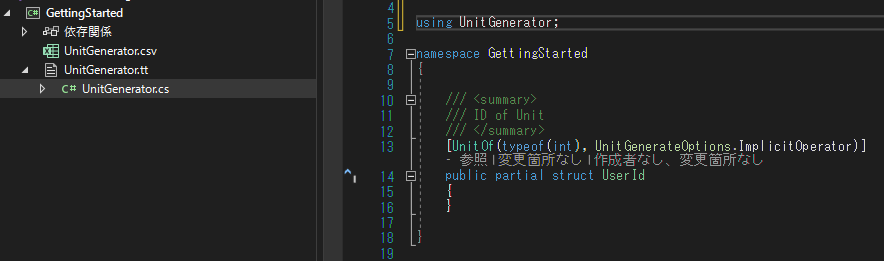
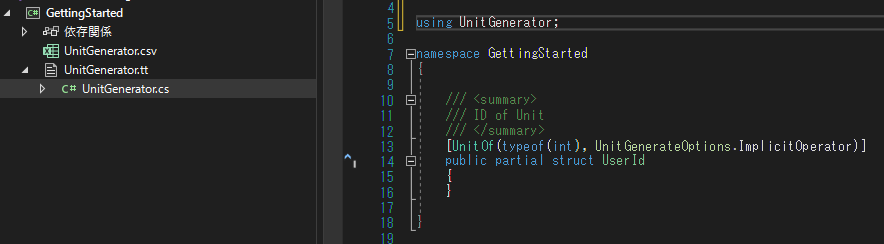
Update documents.

diff --git a/Source/GettingStarted/GettingStarted/UnitGenerator.cs b/Source/GettingStarted/GettingStarted/UnitGenerator.cs
@@ -6,9 +6,13 @@ namespace GettingStarted
     /// <summary>
     /// ID of Unit
     /// </summary>
-    [UnitOf(typeof(int), UnitGenerateOptions.ImplicitOperator)]
+    [UnitOf(typeof(int), UnitGenerateOptions.Validate, "{0:###,###,###}")]
     public partial struct UserId
     {
+        private partial void Validate()
+        {
+            if (value < 20 is false) throw new Exception($"Invalid value range: {value}");
+        }
     }
 
 }

diff --git a/README.md b/README.md
@@ -1,2 +1,110 @@
+[Japanese Document](https://zenn.dev/nuits_jp/articles/2022-05-19-unit-generator-template)
+
 # UnitGeneratorTemplate
 
+UnitGeneratorTemplate is a template package to automatically generate Value Objects using UnitGenerator in bulk by describing settings in CSV.
+
+DDD's ValueObject requires a large amount of similar code to be written.
+
+The [UnitGenerator](https://github.com/Cysharp/UnitGenerator) is a library that solves those issues.
+
+It's very well done, and it scratches an itch, but it's a lot of work to produce large quantities of it...
+
+UnitGeneratorTemplate is a solution to that problem.
+
+Using the T4 template and CSV, you can create arbitrary Value Objects using UnitGenerator in bulk.
+
+# Getting Started
+
+Install UnitGenerator and UnitGeneratorTemplate from NuGet.
+
+- NuGet:[UnitGenerator](https://www.nuget.org/packages/UnitGenerator/)
+- NuGet:[UnitGeneratorTemplate](https://www.nuget.org/packages/UnitGeneratorTemplate/)
+
+
+```powershell
+Install-Package UnitGenerator
+Install-Package UnitGeneratorTemplate
+```
+
+When the package is installed, two files are added.
+
+- UnitGenerator.csv
+- UnitGenerator.tt
+
+Define the Unit you want to generate in UnitGenerator.csv and generate the code in UnitGenerator.tt.
+
+The following screenshot shows a CSV opened with the "Edit csv" extension in Visual Studio Code.
+
+![](/Images/edit-csv.png)
+
+
+The CSV is specified as follows
+
+|Column|Description|Example|
+|--|--|--|
+|Name|Name of struct to be generated|UnitId|
+|Type|Value type|int|
+|Description|Type comment of the struct to be generated|Value object representing the ID of the Unit|
+|Format|ToString format|{0:###,###,###}|
+|ImplicitOperator以降|Attributes specified for UnitGenerator.|Empty if not specified. If not specified, empty; if specified, other.|
+
+After editing the CSV, open the UnitGenerator.tt file and press "Ctrl+s" or press "Run Custom Tool" from the UnitGenerator.tt context menu.
+
+A UnitGenerator.cs file will then be created under UnitGenerator.tt as shown below.
+
+![](/images/articles/2022-05-19-unit-generator-template/generated-unit.png)
+
+# Validate
+
+The use of Validate is somewhat different from other options.
+
+When using Validate, you can specify the validation rule in one of the following ways.
+
+1. Put the validation conditions in the Validate column of the CSV.
+2. implement your own Validate method in a partial.
+
+## Include the condition in the Validate column of the CSV.
+
+For example, in the case of an int type Unit, if the value is less than 10, the Validate column should be as follows
+
+|Name|Type|…|Validate|…|
+|--|--|--|--|--|
+|UserId|int||value < 10||
+
+At this time, edit the UnitGenerator.tt file if you wish to change the exception class and message.
+
+```cs
+<#@ template debug="false" hostspecific="true" language="C#" #>
+...
+<#  
+var validateException = "InvalidOperationException";
+var validateExceptionMessage = "Invalid value range: {value}";
+#>
+```
+
+Change validateException and validateExceptionMessage to any values.
+
+## Implement your own Validate method in partial
+
+In this case, only validation is specified in the CSV as follows.
+
+|Name|Type|…|Validate|…|
+|--|--|--|--|--|
+|UserId|int||✔||
+
+Any string of at least 1 and no more than 5 characters may be specified.
+
+If it is longer than 6 characters, it is assumed that an expression is specified.
+
+The Validate method should be implemented as partial as follows
+
+```cs
+public partial struct UserId
+{
+    private partial void Validate()
+    {
+        if (5 < value) throw new InvalidOperationException($"Invalid value range: {value}");
+    }
+}
+```
